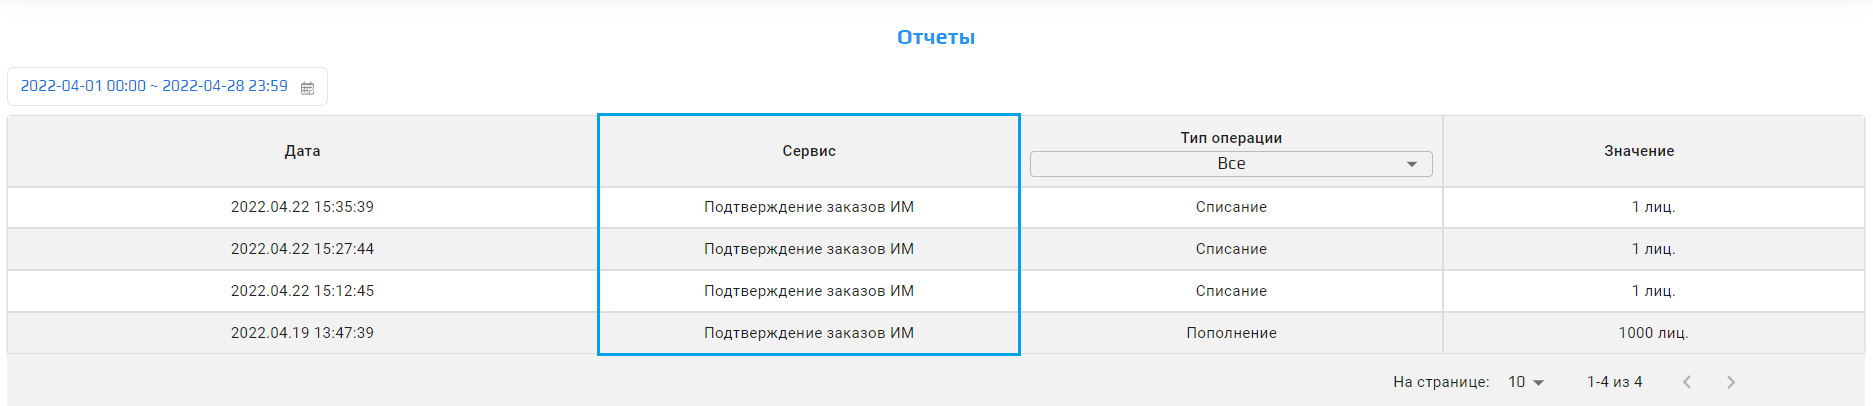
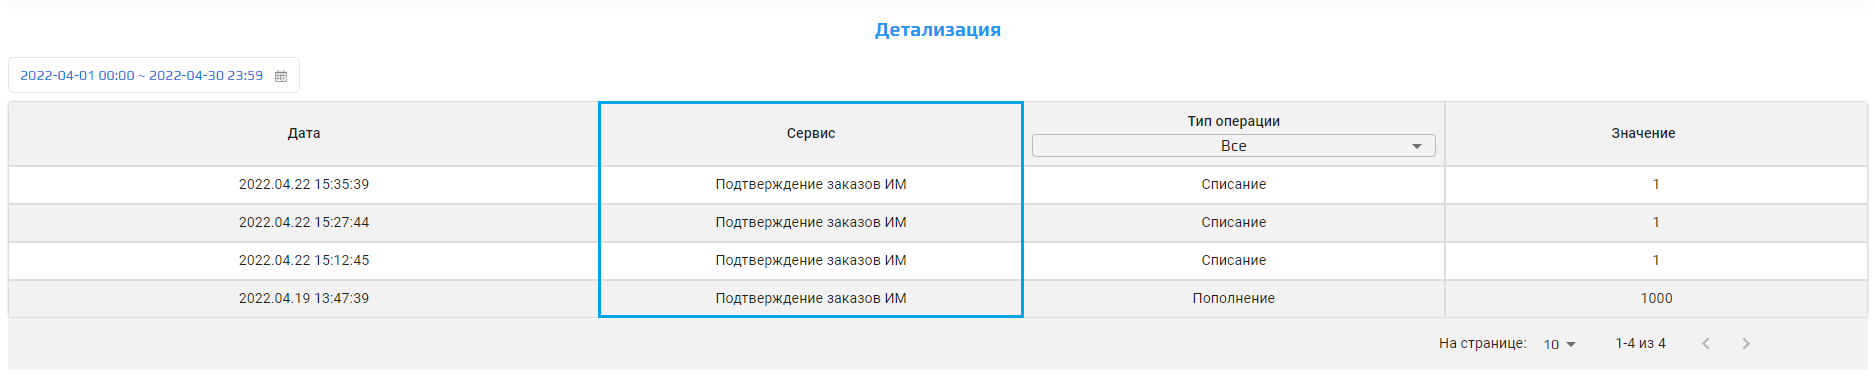
desc

diff --git a/content/03-ver.1.8/4-work_with_product_shop.md b/content/03-ver.1.8/4-work_with_product_shop.md
@@ -5,15 +5,15 @@ metaTitle: "KLOUD.ONE"
 metaDescription: "This is the meta description for this page"
 ---
 
-Приложение **"Подтверждение заказов"** (**ПЗ**) предназначено для подтверждения клиентом оформленного заказа в интернет-магазине. Преимуществами данного приложения являются сокращение времени подтверждения заказа, круглосуточный режим работы, поддержка до 10 одновременных звонков, запись звонка, данные о каждом звонке и статуса заказа автоматически вносятся в систему учета. Информирование происходит по прописанным индивидуальным сценариям.
+Приложение **"Подтверждение заказов"** (**ПЗ**) предназначено для подтверждения клиентом оформленного заказа в интернет-магазине. Преимуществами данного приложения являются сокращение времени подтверждения заказа, круглосуточный режим работы, поддержка до 10 одновременных звонков, запись звонка, данные о каждом звонке и статусе заказа автоматически вносятся в систему учета. Информирование происходит по прописанным индивидуальным сценариям.
 
-Интерфейс приложения "Подтверждение заказов" представляет собой **Личный кабинет** пользователя, в который входит **Панель навигации** и таблицы с данными (**Журнал звонков** и **Отчеты**).
+Интерфейс приложения "Подтверждение заказов" представляет собой **Личный кабинет** пользователя, в который входит **Панель навигации** и таблицы с данными (**Журнал звонков** и **Детализация**).
 
 В личном кабинете пользователь может:  
 
-- отслеживать количество оставшихся лицензий по модулю ПЗ;  
+- отслеживать баланс по приложению ПЗ;  
 - настраивать сценарий подтверждения заказов;  
 - редактировать данные своей учетной записи (SIP-аккаунта, количества линий, изменение имени пользователя и пароля);  
 - проверить работу SIP-соединения;  
-- отслеживать  количество звонков при автообзвоне за выбранные периоды;  
-- просматривать отчет по потраченным лицензиям за выбранные периоды по задачам ПЗ. 
+- отслеживать  количество звонков за выбранные периоды;  
+- просматривать отчет по расходам баланса за выбранные периоды по задачам ПЗ. 

diff --git a/content/03-ver.1.8/4-work_with_product_shop/03-profile_shop.md b/content/03-ver.1.8/4-work_with_product_shop/03-profile_shop.md
@@ -48,7 +48,7 @@ sort: "03"
 
 ![Картинка](./images_shop/registration.png "Кнопка сохранения")
 
-🛈 Кнопка становится активной после внесения изменений в найстройки SIP-аккаунта.  
+🛈 Кнопка **Сохранить** становится активной после внесения изменений в найстройки SIP-аккаунта.  
 
 ![Картинка](./images_shop/profile_button_save.png "Кнопка сохранения")
 
@@ -69,9 +69,9 @@ sort: "03"
 
 ## Пополнение баланса:
 
-Поле **Ключ лицензии** предназначено для ввода буквенно-цифрового кода, при активации которого пополняется баланс лицензий.  
+Поле **Ключ лицензии** предназначено для ввода буквенно-цифрового кода, при активации которого пополняется баланс.  
 🛈 Для активации лицензионного ключа необходимо нажать **АКТИВИРОВАТЬ КЛЮЧ**.  
-🛈 По ссылке **Приобрести лицензионный ключ** можно перейти на сайт платформы Kloud.One и приобрести подходящий пакет лицензий.  
+🛈 По ссылке **Приобрести лицензионный ключ** можно перейти на сайт платформы Kloud.One и приобрести подходящую лицензию.  
 
 ![Картинка](./images_shop/profile_licence.png "Кнопка сохранения")
 
@@ -83,14 +83,15 @@ sort: "03"
 
 ## Новый пароль:
 
-Поле для ввода нового пароля.
+Поле для ввода нового пароля. Это пароль, используемый для интеграции с интернет-магазином.
+
+🛈 Это не пароль от личного кабинета!
 
 ![Картинка](./images_shop/profile_new_pass.png "Поле Новый пароль")
 
 ## Подтверждение:
 
-Поле дублирует поле **Новый пароль** для подтверждения нового пароля. Для завершения смены пароля нажмите на кнопку **Сохранить**.  
-После успешной смены пароля откроется модальное окно **Профиль успешно обновлен**, нажмите **ОК** для закрытия модального окна.  
+Поле дублирует поле **Новый пароль** для подтверждения нового пароля. Для завершения смены пароля нажмите на кнопку **Сохранить**.   
 
 ![Картинка](./images_shop/profile_confirm_pass.png "Поле Подтверждение")
 
@@ -99,3 +100,5 @@ sort: "03"
 Сохраняет новый пароль, если поля **Новый пароль** и **Подтверждение** совпадают.
 
 ![Картинка](./images_shop/profile_butt_save.png "Кнопка Сохранить")
+
+После успешной смены пароля откроется модальное окно **Профиль успешно обновлен**, нажмите **ОК** для закрытия модального окна. 

diff --git a/content/03-ver.1.8/4-work_with_product_shop/06-common_settings.md b/content/03-ver.1.8/4-work_with_product_shop/06-common_settings.md
@@ -4,16 +4,16 @@ title: "Иконка Настройки в Личном кабинете ПЗ"
 sort: "06"
 ---
 
-Вкладка Настройки представляет всплывающее модальное окно с возможностью настройки и тестирования скрипта для сервиса **Подтверждение заказов**.
+Вкладка Настройки представляет собой всплывающее модальное окно с возможностью настройки и тестирования скрипта для приложения **Подтверждение заказов**.
 
-🛈 После нажатия на иконку **Настройки** открывается модальное окно, в котором находятся настройки фраз сценария и параметры сценария этого модуля.
+🛈 После нажатия на иконку **Настройки** открывается модальное окно, в котором находятся настройки фраз сценария и параметры сценария приложения.
 
 В окне **Настройки** можно:
 
-- настроить скрипт голосового подтверждения для подтверждения заказа;
-- подключить интеграцию с учетной системой (1С Битрикс);
+- настроить скрипт голосового сообщения для подтверждения заказа;
+- подключить интеграцию с учетной системой (1С-Битрикс);
 - указать количество повторных звонков, которые будут совершены для дозвона;
-- подключить или отключить возможность воспроизведения перечня товаров, воспроизведения уведомления на почту, воспроизведение оценки качества сервиса, включение или отключение записи звонка;
+- включить или отключить воспроизведение перечня товаров, воспроизведение сообщения об отправке уведомления на почту, воспроизведение оценки качества сервиса, включение или отключение записи звонка;
 - прописать данные для тестирования скрипта, а также прослушать прописанный скрипт;
-- ознакомиться с описанием запросов для подключения сервиса Kloud.One к интернет-магазину и инструкцией для настройки сервиса;
-- найти ссылку на документацию с описанием  API модуля подтверждения заказов.
+- ознакомиться с описанием запросов для подключения приложения Kloud.One к интернет-магазину и инструкцией для настройки сервиса;
+- найти ссылку на документацию с описанием  API приложения подтверждения заказов.

diff --git a/content/03-ver.1.8/4-work_with_product_shop/04-reports_shop.md b/content/03-ver.1.8/4-work_with_product_shop/04-reports_shop.md
@@ -11,9 +11,9 @@ sort: "04"
 4. Значение.  
 
 В разделе **Детализация** пользователь может:  
-- выбрать период, за который ему будет предоставлен отчёт о расходах лицензий;  
+- выбрать период, за который ему будет предоставлен отчёт о расходах;  
 - ознакомиться с типом операции (пополнение или списание);
-- ознакомиться с количеством добавленных и использованных лицензий.
+- ознакомиться с количеством добавленных и использованных единиц баланса.
 
 ![Картинка](./images_shop/reports_details.png "Виджет выбора отчетного периода")
 
@@ -47,7 +47,7 @@ HH:mm:ss – время: часы-минуты-секунды.
 
 #### Значение
 
-Последний раздел таблицы **Значение** демонстрирует количество приобретенных или потраченных единиц.
+Последний раздел таблицы **Значение** демонстрирует количество приобретенных или потраченных единиц баланса.
 
 ![Картинка](./images_shop/reports_unit_time.png "Значение в отчетной таблице")
 

diff --git a/content/03-ver.1.8/4-work_with_product_shop/02-infoboard_shop.md b/content/03-ver.1.8/4-work_with_product_shop/02-infoboard_shop.md
@@ -1,6 +1,6 @@
 ---
 slug: "/post130"
-title: "Инфопанель по остатку лицензий в Личном кабинете"
+title: "Инфопанель с состоянием баланса в Личном кабинете"
 sort: "02"
 ---
 
@@ -8,4 +8,4 @@ sort: "02"
 
 Раздел представляет собой панель, в которой отображаются: текущий остаток на балансе, а также имя пользователя. Помимо этого, в инфопанели можно перейти к разделам **Профиль** и **Детализация**.
 
-![Картинка](./images_shop/balance_keys_main.png "Инфопанель по модулю ПЗ")
+![Картинка](./images_shop/balance_keys_main.png "Инфопанель по приложению ПЗ")
